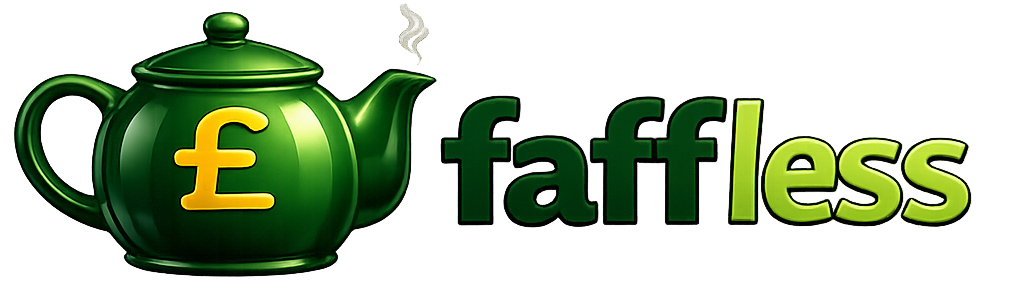
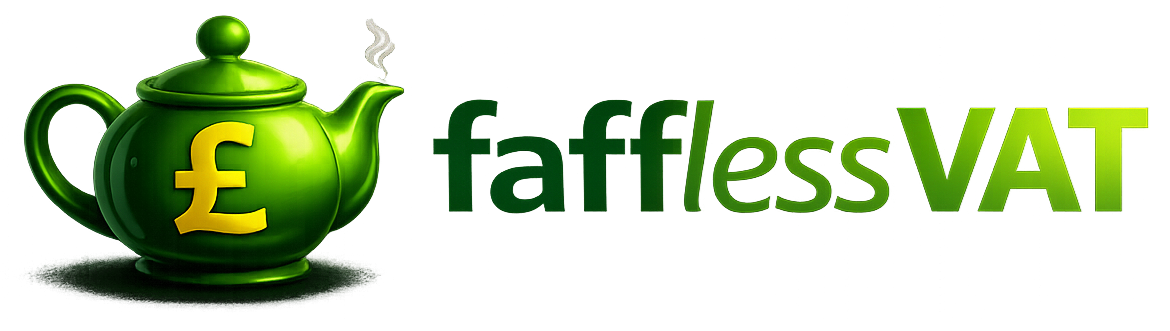
new domain, new branding

diff --git a/app/page.tsx b/app/page.tsx
@@ -20,7 +20,7 @@ export default function HomePage() {
         <div className="relative mx-auto flex min-h-screen w-full max-w-5xl flex-col items-center justify-center px-6 text-center">
           {/* Logo */}
           <Image
-            src="/branding/faffless-lockup11.png"
+            src="/branding/faffless-lockup16.png"
             alt="FAFFLESS"
             width={1200}
             height={400}
@@ -30,14 +30,14 @@ export default function HomePage() {
 
           {/* Your original “Free E-invoice Creator” */}
           <h1 className="-mt-1 text-[22px] sm:text-[28px] md:text-[40px] font-black tracking-tight text-black/82 leading-[1.25]">
-            Free E-invoice Creator
+            Free E-Invoice XML Generator (UK)
           </h1>
 
           {/* Your original explainer line (kept) */}
           <p className="mt-5 text-[12px] sm:text-[15px] md:text-[17px] font-semibold text-black/66 leading-snug max-w-3xl">
-            The UK will require VAT invoices to be issued as e-invoices from 2029.
+            Create structured invoice XML you can upload or email today.
             <br />
-            Create a structured e-invoice XML (plus a PDF) in minutes — no faff.
+            Peppol/endpoint sending is coming — join early access.
           </p>
 
           {/* Coming soon badge */}
